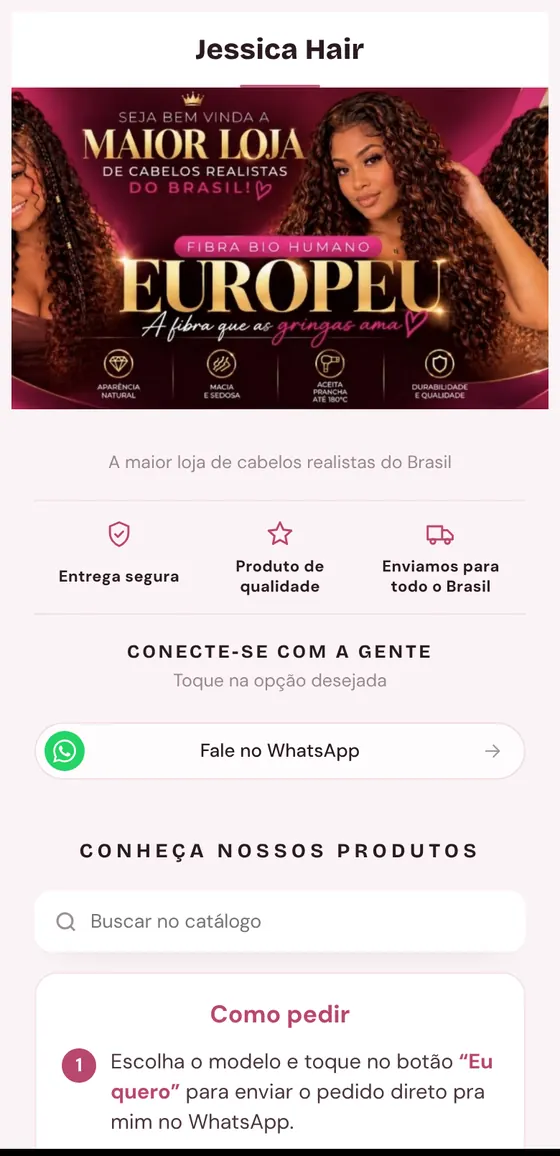
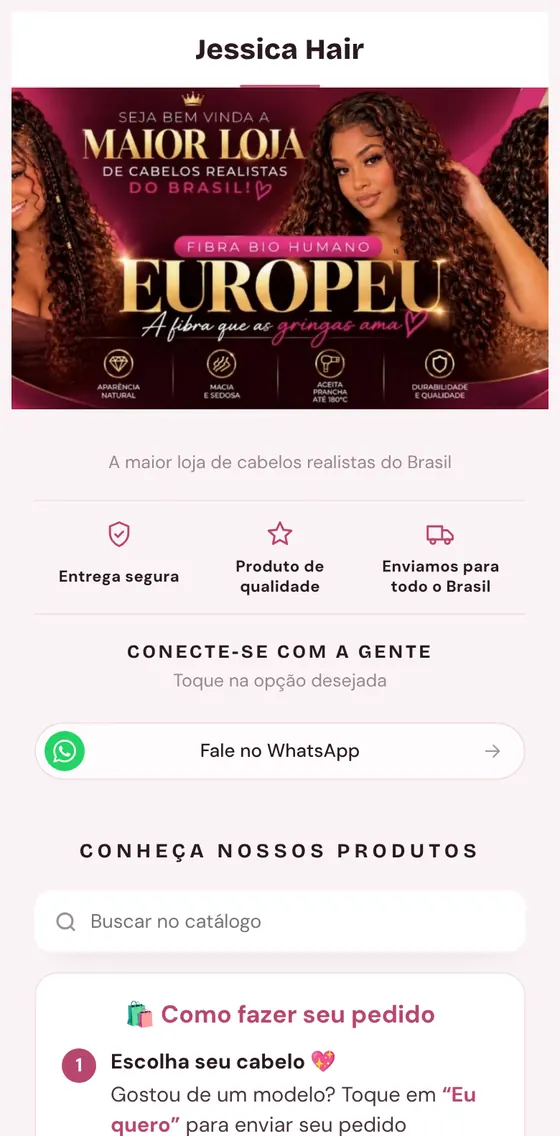
Vitrine: novo texto do "Como fazer seu pedido" e mensagem do carrinho
A caixa de instruções usa o texto novo (Escolha seu cabelo / Quer mais de um
modelo?). A mensagem do WhatsApp agora começa com "Eu quero os produtos:",
lista um produto por linha e só mostra o valor quando o produto tem preço.
Lojas que ainda usavam a mensagem padrão antiga passam para a nova.

Claude-Session: https://claude.ai/code/session_01VYbtS7FNXvMm2uFNbzr5Ez

diff --git a/public/app.html b/public/app.html
@@ -99,6 +99,7 @@ html, body { overflow-x: clip; }
 .howto li > span { flex: none; width: 24px; height: 24px; border-radius: 50%; background: var(--c-buyBg); color: var(--c-buyText); font-size: 13px; font-weight: 700; display: grid; place-items: center; margin-top: 1px; }
 .howto p { margin: 0; font-size: 14.5px; line-height: 1.45; }
 .howto b { color: var(--c-buyBg); }
+.howto b.ht { display: block; color: var(--c-title, inherit); margin-bottom: 2px; }
 .cats { display: flex; gap: 14px; overflow-x: auto; padding: 14px 2px 6px; scrollbar-width: none; }
 .cats::-webkit-scrollbar { display: none; }
 .cat { flex: none; border: 0; background: none; padding: 0; display: grid; justify-items: center; gap: 5px; width: 66px; font-size: 11.5px; color: var(--c-catText); }
@@ -1006,7 +1007,8 @@ const DEFAULT_TESTI = [
 ];
 const RATINGS = { 1: [4.9, 32], 2: [4.8, 57], 3: [5, 14], 4: [4.7, 41], 5: [4.9, 12], 6: [4.8, 26], 7: [4.6, 9], 8: [4.9, 88], 101: [5, 64], 102: [4.9, 23], 201: [4.9, 210], 202: [5, 18], 301: [4.9, 47], 303: [5, 31] };
 Object.values(EXAMPLES).forEach(e => e.products.forEach(p => { const r = RATINGS[p.id]; if (r) [p.rating, p.reviewsCount] = r; }));
-const MSG_DEFAULT = 'Olá! 👋\nAcabei de escolher alguns produtos no seu catálogo e gostaria de finalizar meu pedido! 🛍\n\nProdutos escolhidos:\n{nome_dos_produtos}';
+const MSG_OLD = 'Olá! 👋\nAcabei de escolher alguns produtos no seu catálogo e gostaria de finalizar meu pedido! 🛍\n\nProdutos escolhidos:\n{nome_dos_produtos}';
+const MSG_DEFAULT = 'Eu quero os produtos:\n{nome_dos_produtos}';
 const DEFAULT = {
   v: 4,
   store: { name: 'Ateliê Exemplo', bannerImg: '', bannerKicker: 'Nova coleção', bannerTitle: 'Verão 2026',
@@ -1055,7 +1057,7 @@ if (!S.store.p4) { S.store.layout = 'list'; S.store.p4 = true; }
 if (!S.store.p3) { if (S.store.theme === 'rosa') Object.assign(S.colors, { bNew: '#FFFFFF', bTop: '#FFFFFF', bPromo: '#FFFFFF', badgeText: '#2A1A22' }); S.store.p3 = true; }
 if (!S.store.p2) { if (S.store.theme === 'rosa') S.colors = { ...DEFAULT_COLORS }; S.store.p2 = true; }
 if (!S.testimonials) S.testimonials = FRESH ? [] : JSON.parse(JSON.stringify(DEFAULT_TESTI));
-if (!S.store.greeting || S.store.greeting === 'Olá! Quero fazer este pedido:') S.store.greeting = MSG_DEFAULT;
+if (!S.store.greeting || S.store.greeting === 'Olá! Quero fazer este pedido:' || S.store.greeting === MSG_OLD) S.store.greeting = MSG_DEFAULT;
 S.products = S.products.map(normP);
 function save() {
   if (MODE === 'panel') return scheduleSync();
@@ -1303,9 +1305,9 @@ function renderLoja() {
     <section class="main">${s.catalogTitle !== '' ? `<h2 class="cat-title">${esc((s.catalogTitle ?? 'Conheça nossos produtos').replace('{loja}', s.name))}</h2>` : ''}
     ${KITS_SOON ? '' : kitsHTML()}
     <label class="search">${ICONS.search}<input id="q" type="search" placeholder="Buscar no catálogo" value="${esc(ui.q)}" aria-label="Buscar produtos"></label>
-    <section class="howto" aria-label="Como pedir"><h3>Como pedir</h3><ol>
-      <li><span>1</span><p>Escolha o modelo e toque no botão <b>“${esc((S.store.buyText || 'EU QUERO').toLowerCase().replace(/^\S/, c => c.toUpperCase()))}”</b> para enviar o pedido direto pra mim no WhatsApp.</p></li>
-      <li><span>2</span><p>Quer levar mais de um? Toque no <b>+</b> de cada produto para adicionar <b>quantos quiser</b>, depois toque em <b>“Ver pedido”</b> e envie tudo de uma vez.</p></li></ol></section>
+    <section class="howto" aria-label="Como fazer seu pedido"><h3>🛍 Como fazer seu pedido</h3><ol>
+      <li><span>1</span><p><b class="ht">Escolha seu cabelo 💖</b>Gostou de um modelo? Toque em <b>“${esc((S.store.buyText || 'EU QUERO').toLowerCase().replace(/^\S/, c => c.toUpperCase()))}”</b> para enviar seu pedido diretamente pelo WhatsApp.</p></li>
+      <li><span>2</span><p><b class="ht">Quer mais de um modelo? 🛒</b>Toque no <b>“+”</b> dos produtos que deseja adicionar. Depois, clique em <b>“Ver pedido”</b> e envie tudo de uma vez pelo WhatsApp!</p></li></ol></section>
     <div class="cats" role="group" aria-label="Categorias">
       ${cats.map(c => `<button class="cat" data-cat="${esc(c)}" aria-pressed="${ui.cat === c}"><span class="ring"><span>${c === 'Todos' ? `<span class="all">${ICONS.grid}</span>` : catImg(c)}</span></span><em>${esc(c)}</em></button>`).join('')}
     </div>
@@ -1530,7 +1532,7 @@ const payList = () => S.store.payments.split(',').map(x => x.trim()).filter(Bool
 const entList = () => [S.store.delivery && 'Entrega', S.store.pickup && 'Retirada'].filter(Boolean);
 function buildMsg() {
   const t = totals();
-  const lines = cart.map(c => { const p = cp(c); return `• ${c.qty}x ${p.name}${c.size ? ` (${p.optLabel}: ${c.size})` : ''} — ${hasPrice(p) ? (p.fromPrice ? 'a partir de ' : '') + brl(p.price * c.qty) : 'valor a consultar'}${c.kit ? pickTxt(c).map(x => `\n   - ${x}`).join('') : ''}`; });
+  const lines = cart.map(c => { const p = cp(c); return `- ${c.qty > 1 ? c.qty + 'x ' : ''}${p.name}${c.size ? ` (${p.optLabel}: ${c.size})` : ''}${hasPrice(p) ? ' — ' + (p.fromPrice ? 'a partir de ' : '') + brl(p.price * c.qty) : ''}${c.kit ? pickTxt(c).map(x => `\n   - ${x}`).join('') : ''}`; });
   const ent = cartHas('fisico') ? co.entrega : '';
   const g = S.store.greeting || MSG_DEFAULT; const list = lines.join('\n');
   const head = g.includes('{nome_dos_produtos}') ? g.split('{nome_dos_produtos}').join(list) : `${g}\n\n${list}`;

diff --git a/public/index.html b/public/index.html
@@ -118,7 +118,7 @@
       <p class="lead hl">Tudo em um único link, com seu próprio subdomínio!</p>
       <div class="cta"><a class="btn big" href="/cadastro">QUERO CRIAR MEU CATÁLOGO</a><a class="btn big soft" href="#planos">Ver planos</a></div>
     </div>
-    <figure class="phone"><div class="screen"><img src="/static/exemplo/vitrine-celular.webp" width="560" height="1156" alt="Vitrine da loja Jessica Hair aberta no celular, com o banner da loja" fetchpriority="high"></div>
+    <figure class="phone"><div class="screen"><img src="/static/exemplo/vitrine-celular.webp" width="560" height="1136" alt="Vitrine da loja Jessica Hair aberta no celular, com o banner da loja" fetchpriority="high"></div>
       <figcaption>Vitrine real: Jessica Hair</figcaption></figure>
   </header>
 
